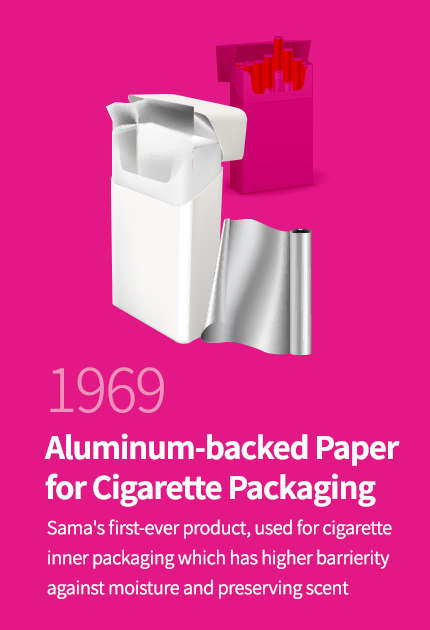
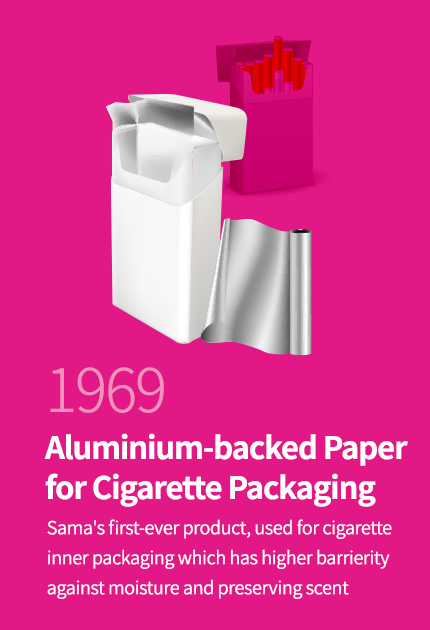
이미지 교체 및 텍스트수정

Changed region(s): [[0.3326, 0.6635, 0.9372, 0.754]]

diff --git a/resources/views/business/speciality/process.blade.php b/resources/views/business/speciality/process.blade.php
@@ -98,7 +98,7 @@
                     <a href="https://www.youtube.com/embed/ew1lzr5qKUg?enablejsapi=1&autoplay=true&origin={{ config('app.url')}}" class="popup-btn">View Film</a>
                 </li>
                 <li class="process-layout__list--item content-02__list--item">
-                    <span class="lang-korea">Laminator</span>
+                    <span class="lang-korea">Laminating</span>
                     {{-- <strong class="lang-english">Laminator</strong> --}}
                     <a href="https://www.youtube.com/embed/3t6QU4xq-kc?enablejsapi=1&autoplay=true&origin={{ config('app.url')}}" class="popup-btn">View Film</a>
                 </li>
@@ -132,7 +132,7 @@
                     <li class="content-02__process--item item-02">
                         <div class="text-box">
                             <div>
-                                <em>Laminator</em>
+                                <em>Laminating</em>
                             </div>
                         </div>
                     </li>

diff --git a/resources/views/business/foil/external.blade.php b/resources/views/business/foil/external.blade.php
@@ -13,11 +13,11 @@
 @endsection
 
 @section('info__title')
-    Can we make a battery that is <span>lighter and can be applied to various types</span> of automobiles?
+Can we make a battery for automobiles <span>that is lighter and variable in shape</span>?
 @endsection
 
 @section('info__text')
-    In order to localize products that were previously 100% dependent on import from Japan, we developed special aluminum foil used for LIB pouch for the first time in Korea in 2012. Since then we have been contributing to the Korean automotive industry, helping the cars become lighter and more efficient.
+    In order to localize products that were previously 100% dependent on import from Japan, we developed special aluminium foil used for LIB pouch for the first time in Korea in 2012. Since then we have been contributing to the Korean automotive industry, helping the automobiles become lighter and more efficient.
 @endsection
 
 @section('info__value')

diff --git a/resources/views/business/foil/main.blade.php b/resources/views/business/foil/main.blade.php
@@ -35,12 +35,12 @@
             <div class="foil-box__block">
                 <div class="foil-box__block--item">
                     <a href="foil/decoration" class="foil-box--item item-decoration">
-                        <p class="foil-box__text">High-gloss aluminium Foil for Decoration</p>
+                        <p class="foil-box__text">High-gloss Aluminium Foil for Decoration</p>
                     </a>
                 </div>
                 <div class="foil-box__block--item">
                     <a href="foil/line" class="foil-box--item item-line">
-                        <p class="foil-box__text">Hair Line aluminium Foil</p>
+                        <p class="foil-box__text">Hair Line Aluminium Foil</p>
                     </a>
                 </div>
             </div>

diff --git a/resources/views/layouts/managerPop01.blade.php b/resources/views/layouts/managerPop01.blade.php
@@ -1,16 +1,16 @@
 <button class="question-pop__close-btn layer-popup__close-btn" type="button">닫기</button>
 <div class="manager-pop__title">
-    <h3>담당자</h3>
+    <h3>Representative</h3>
 </div>
 
 <div class="manager-pop__list">
     <dl>
-        <dt>담당자</dt>
-        <dd>유호선 팀장</dd>
+        <dt>Representative</dt>
+        <dd>Kim Myung-hun</dd>
     </dl>
     <dl>
         <dt>Tel</dt>
-        <dd><a href="tel:02-3458-0512">02-3458-0511</a></dd>
+        <dd><a href="tel:02-3458-0512">+82 2-3458-0562</a></dd>
     </dl>
     <dl>
         <dt>E-mail</dt>

diff --git a/resources/views/layouts/managerPop02.blade.php b/resources/views/layouts/managerPop02.blade.php
@@ -1,16 +1,16 @@
 <button class="question-pop__close-btn layer-popup__close-btn" type="button">닫기</button>
 <div class="manager-pop__title">
-    <h3>담당자</h3>
+    <h3>Representative</h3>
 </div>
 
 <div class="manager-pop__list">
     <dl>
-        <dt>담당자</dt>
-        <dd>김승주 팀장</dd>
+        <dt>Representative</dt>
+        <dd>Kim Myung-hun</dd>
     </dl>
     <dl>
         <dt>Tel</dt>
-        <dd><a href="tel:02-3458-0542">02-3458-0542</a></dd>
+        <dd><a href="tel:02-3458-0542">+82 2-3458-0562</a></dd>
     </dl>
     <dl>
         <dt>E-mail</dt>

diff --git a/resources/views/aboutUs/financial.blade.php b/resources/views/aboutUs/financial.blade.php
@@ -108,7 +108,7 @@
                             @endforeach
                         </tr>
                         <tr>
-                            <td>Profit for the year</td>
+                            <td>Profit for the period</td>
                             @foreach ($net_income as $net_income_text)
                                 <td class="text-center">{{ number_format($net_income_text) }}</td>
                             @endforeach

diff --git a/resources/views/business/foil/line.blade.php b/resources/views/business/foil/line.blade.php
@@ -1,7 +1,7 @@
 @extends('layouts.business')
 
 @section('detail__title')
-    Hair Line aluminium Foil
+    Hair Line Aluminium Foil
     <p>
         Sama's unique hair line pattern, utilized on home appliances
     </p>
